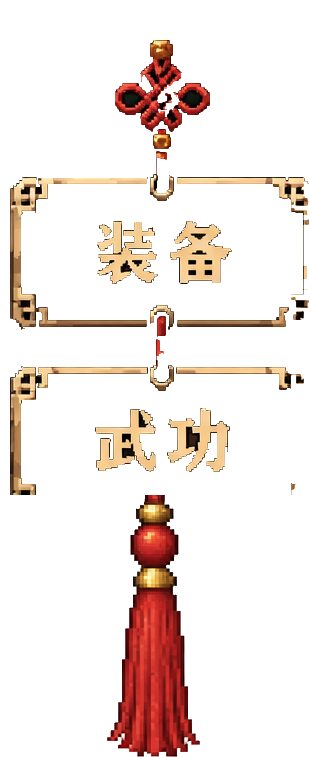
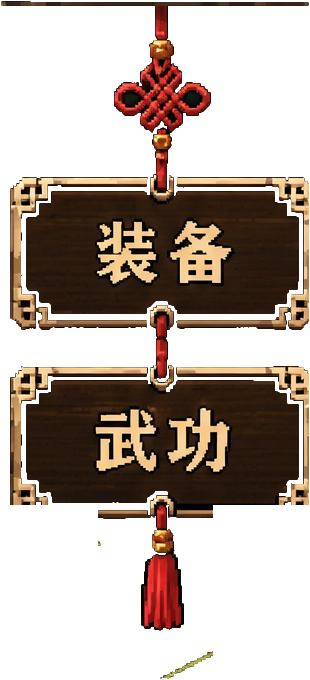
T16：战斗界面渲染+输入+HUD 交付收尾——C 环复核（108/108+三零+红线0真违规+实渲染截图 0JS错误）；透明化前后对比图+全链截图+done回执入库

diff --git a/tasks/done/T16-done.md b/tasks/done/T16-done.md
@@ -1,0 +1,48 @@
+# T16 交付回执 · 战斗界面渲染+输入+HUD（frontend · T-F1）
+
+> 交付：2026-09-02 午 · 执行者：frontend · 状态：**待 C 环验收**
+> 运行方式：`node proto/battle_demo/build.mjs`（bundle 已预生成）→ 浏览器/微信开发者工具直开 `proto/battle_demo/index.html`（file:// 可跑）
+
+## 1. DoD 逐项
+
+- [x] **三零**：`tsc --noEmit` 0 错 / `eslint` 0 错 / `tsc` build 0 错（本机复跑通过）
+- [x] **全量测试不回归**：vitest 8 文件 **108/108 全绿**（含 T15 侧 battle 14/hex/session 用例；本卡新增 23 例）
+- [x] **渲染层 import battle-core = 0 自动化断言**：`tests/battle-hex-render.test.ts` 扫描 ui/battle-hex-render.ts、ui/battle-input.ts、config/battle-hex.ts、proto/battle_demo/{mock_session,main}.ts 五文件（匹配 from/require 模块路径形态，注释宣示字样不计）
+- [x] **battle_demo preview 全链可跑**：渲染/镜头拖动/点击移动/普攻+技能施放/特绝轻毒弹出/HUD/组件接入（截图 6 张 `proto/battle_demo/shots/`，playwright-core+本机 Chrome 驱动 `shot.mjs` 可复跑）
+- [x] **契约咬合测试**：T15 已冻结契约进 types.ts → 直接消费；新增「真实 createHexBattle 快照 → updateView/drawFrame 全链」用例 + mock 会话 3 例
+- [x] 文件清单+架构决策说明（下）+任务箱三同步（threads/LOG/box.db 均更新）
+
+## 2. 文件清单
+
+**新增（渲染层交付物）**
+- `config/battle-hex.ts` — 表现层常量唯一真值（HEX/BOARD/CAMERA/TILE/HUD/ARC_BTNS/TOPBAR 标定/组件布局/资源路径表 BATTLE_HEX_RES）
+- `ui/battle-hex-render.ts` — 七层渲染器（L0 底图→L1 立体瓦片→L2 高亮→L3 棋子 billboard/y 排序/lerp/跳跃→L4 三件套+弧形四钮→L5 三组件→L6 特效+结算遮罩），只读快照
+- `ui/battle-input.ts` — 输入翻译（命中优先级 弧钮>ctrl>木牌>格子；>8px 拖镜判定）→ ActionRequest
+- `proto/battle_demo/`：index.html / main.ts / mock_session.ts / bundle.js（生成物）/ build.mjs / shot.mjs
+- `proto/battle_demo/cutout/`：png_codec.mjs（零依赖 PNG 编解码）/ cutout.mjs（去背管线）/ bottom_clean.mjs / post_trim.mjs / crop.mjs / measure.mjs（标定测量）
+- `tests/battle-hex-render.test.ts` — 23 例
+
+**素材产物（本卡透明化管线产出）**
+- `assets/ui/pixel/battle/components/plaque_l_alpha.png`（310×680，去背+暖色保护）
+- `assets/ui/pixel/battle/components/ctrl_r_alpha.png`（223×448，自 v8 定稿基准重裁+去背；源切图缺逃跑钮）
+- 前后对比：`proto/battle_demo/shots/cmp_plaque.png`、`cmp_ctrl.png`
+
+**修改（最小步）**
+- `tsconfig.json`：include 增 `proto/battle_demo/**/*.ts`（preview 代码过三零）
+- `env.d.ts`：测试用 node:fs/node:path 最小 ambient 声明（vitest 运行时可用；小游戏运行时禁用）
+
+## 3. 架构决策说明
+
+1. **契约直接消费 types.ts（超出批复口径的简化）**：开工发现 T15 M0 已把 §3.2/3.3 冻结进 types.ts（含 O3 无 deploy）→ 放弃 proto 内镜像，直接 import——避免两份定义漂移，"冻结后切 import"天然完成，PM 批复意图（不擅改 types.ts）未违背。
+2. **契约缺口两处**：① `heroSkills`（弧钮置灰的内力/冷却数据源）不在冻结契约 → 以 `BattleSnapshotExt` 可选扩展段由 mock 供给，渲染器可选消费（对切需 T15 供给同形字段或登记工单补契约）；② `selectedCell` 选中格高亮 → 纯演出态存 view，不进会话真值。
+3. **hex 几何 FE 自含**：投影/拾取（hexToWorld/worldToHex）落 config+render，不 import T15 systems/hex（其仍在演进；FE 只需像素投影，无图论）。测试锚定 96 号公式。
+4. **零依赖打包器**：环境无 esbuild → 用 devDep typescript 的 transpileModule + 70 行 CJS 注册表拼单文件经典脚本（ESM 在 file:// 被 CORS 拦，必须 bundle）。
+5. **透明化管线（Q2 批复落地，纯 node zlib）**：边缘洪泛 + 封闭孔洞兜底 + 1px 羽化 + 小岛/细笔画清理 + **暖色保护门控（R>G+12 永不算背景）**——最后一项解决"暗棕木面 vs 暗绿背景同亮度异色调"误抠问题（黑底目验盲区，靠绿底衬对比图暴露）；ctrl_r 源切图缺逃跑钮 → 从 v8 定稿基准重裁；plaque 红穗曾用家场景 plaque_chain 正料合成（最终版原生穗被暖色保护保住，合成不再需要）。
+6. **资源路径**：config BATTLE_HEX_RES 保持包根相对（生产唯一真值）；file:// 预览 loader 加 `../../` 前缀适配；占位帧沿用 `assets/ui/frames/battle/` 小表（T14 到位换表+调 PIECE.heightPerTile）。
+7. **数值集中**：展示/几何参数全在 config/battle-hex.ts；mock 数值全在 mock_session.ts 且标注演出占位；渲染/输入层零数值计算。
+
+## 4. 交接与观察项
+
+- **对切 T15**：render/input 类型已按冻结契约；真快照咬合用例已绿。剩余：① heroSkills 同形供给（工单或 session 扩展）；② mock 替换点=main.ts 的 `createMockSession`（单点）。
+- **L 环目验项**：弧钮间距/弹出时长（ARC_BTNS）、演出时序（CHOREO）、压暗层深度（TOPBAR.dimAlpha）、棋子定尺（PIECE.heightPerTile，T14 后校）均为 config 手感项。
+- **后置**：顶栏文字/胶囊烘焙（M4 真机对位+canvas 叠字配方）；事件流驱动 L6 特效（Q1② 裁决留迭代）；跳格轻功抛物线启发式（renderPos-pos 距离>1.5 格触发）。
